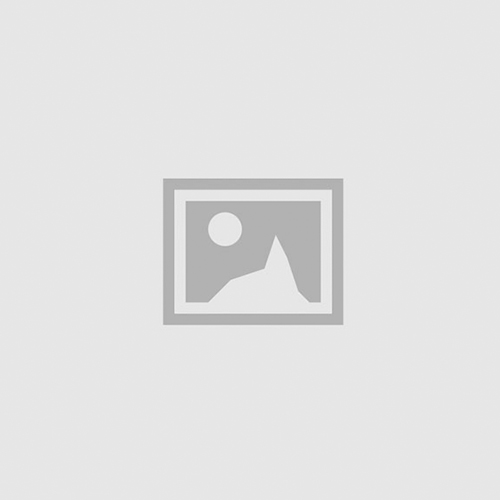
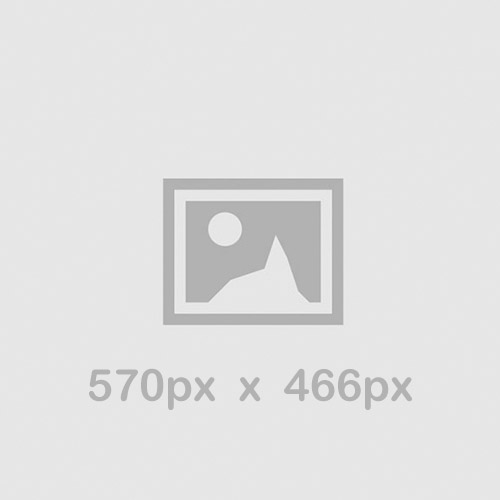
add size to placeholder images

Changed region(s): [[0.18, 0.72, 0.45, 0.84], [0.57, 0.72, 0.84, 0.84], [0.48, 0.75, 0.54, 0.81]]

diff --git a/src/pages/get-involved.js b/src/pages/get-involved.js
@@ -3,7 +3,7 @@ import styled from '@emotion/styled';
 import '../styles/about.css';
 
 import line from '../images/blue-line.png';
-import placeholder from '../images/get-involved-placeholder.png';
+import placeholder from '../images/get-involved-placeholder2.png';
 import PageHeader from '../components/PageHeader';
 import PageContainer from '../components/PageContainer';
 import Layout from '../components/Layout';

diff --git a/src/pages/covid.js b/src/pages/covid.js
@@ -204,7 +204,7 @@ const CovidPage = ({ location }) => {
                   <Link to="/contact">Contact</Link>
                 </Button>
                 <ButtonTracker>
-                  <a href="https://www.doh.gov.ph/covid19tracker">
+                  <a href="https://covid19stats.ph/">
                     COVID-19 Tracker
                   </a>
                 </ButtonTracker>
